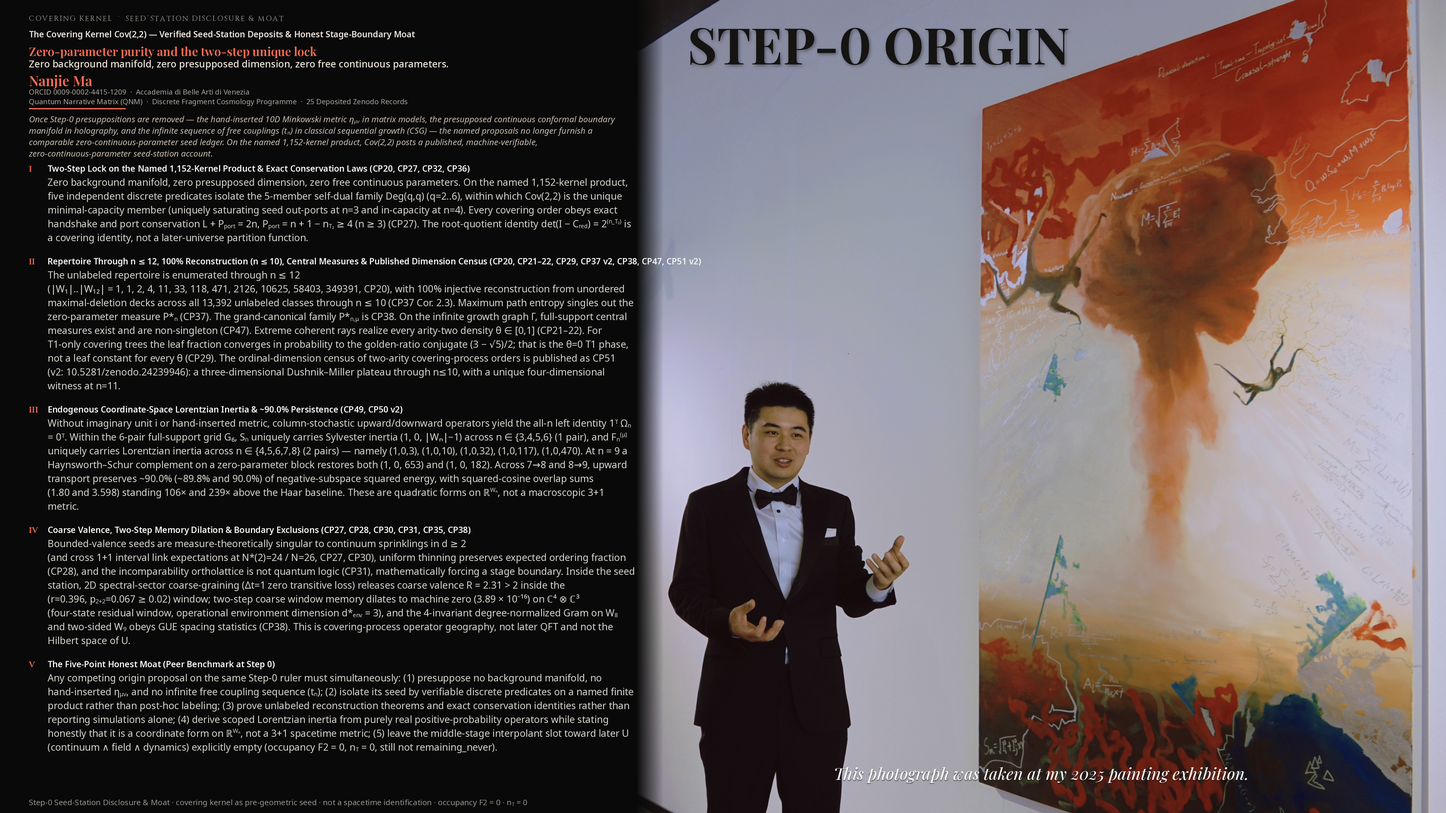
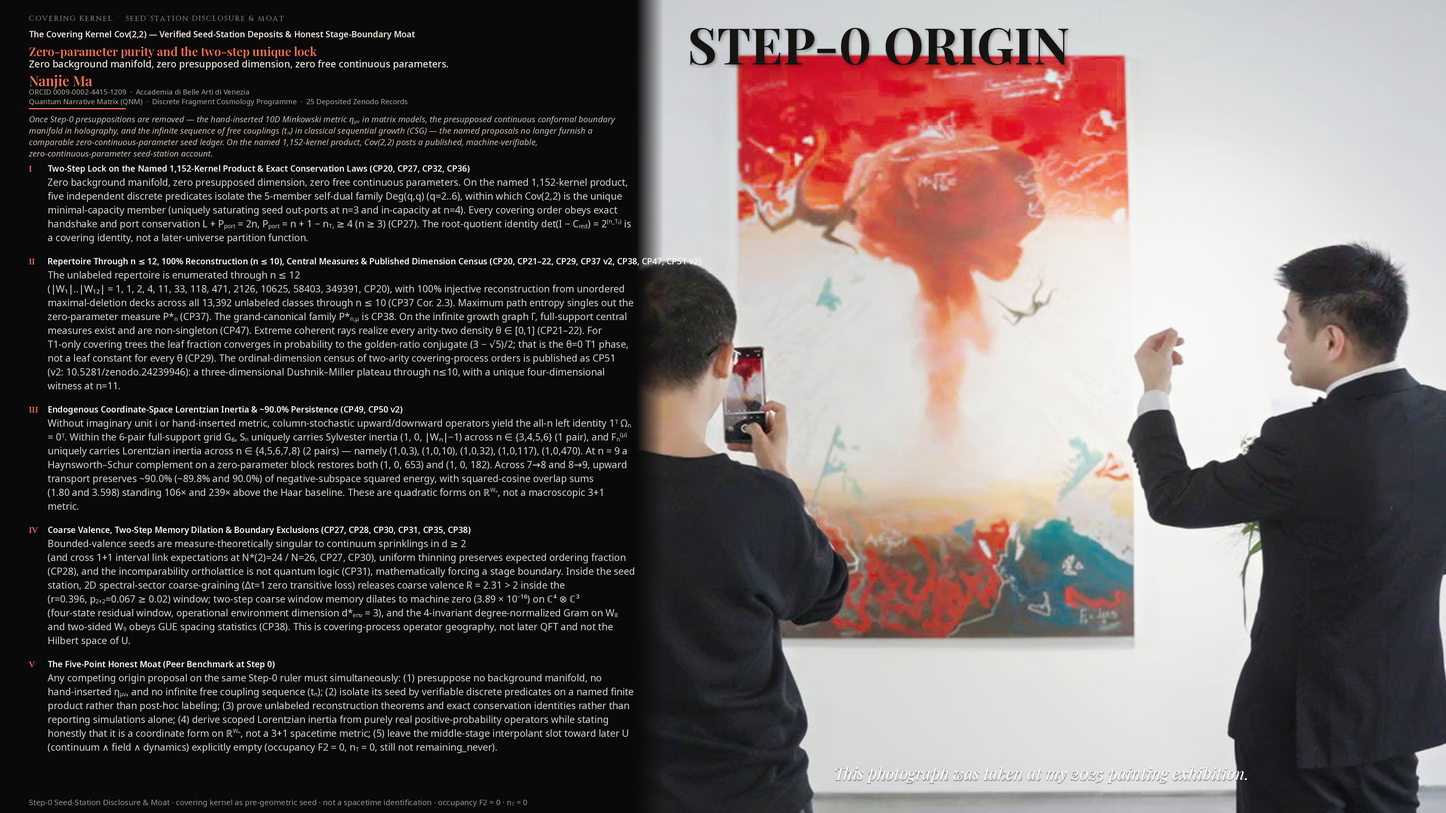
Update STEP-0 ORIGIN plates: add catalogue poster; replace moat with exhibition-photo versions.

diff --git a/step-0-origin-en.html b/step-0-origin-en.html
@@ -4,7 +4,7 @@
 <meta charset="UTF-8">
 <meta name="viewport" content="width=device-width, initial-scale=1.0">
 <title>STEP-0 ORIGIN · seed-station disclosure</title>
-<meta name="description" content="Public seed-station disclosure for the covering kernel: two overlay plates on 2025 exhibition photographs, a written boundary, and links to the on-record deposit table. Not cosmogenesis payment.">
+<meta name="description" content="Public seed-station disclosure for the covering kernel: three overlay plates on 2025 exhibition photographs, a written boundary, and links to the on-record deposit table. Not cosmogenesis payment.">
 <style>
 *{box-sizing:border-box}
 body{font-family:Georgia,"Times New Roman",serif;max-width:980px;margin:0 auto;padding:36px 20px 56px;line-height:1.8;color:#111;background:#fff}
@@ -40,7 +40,7 @@ footer{margin-top:36px;padding-top:14px;border-top:1px solid #ccc;font-size:0.82
 <p class="lead">
   Programme note · 15 November 2026 · Nanjie Ma ·
   <a href="https://orcid.org/0009-0002-4415-1209">ORCID 0009-0002-4415-1209</a><br>
-  <span class="small">About / Work subpage. Public overlay plates on 2025 exhibition photographs, with a seed-station speaking card. Not a homepage hero. Not a ranking. Not a breakthrough notice. Not cosmogenesis payment. The deposit catalogue is on the covering-kernel page and is not reprinted here.</span>
+  <span class="small">About / Work subpage. Three public overlay plates on 2025 exhibition photographs, with a seed-station speaking card. Not a homepage hero. Not a ranking. Not a breakthrough notice. Not cosmogenesis payment. The live 25-record deposit table remains on the covering-kernel page.</span>
 </p>
 
 <div class="nav">
@@ -60,10 +60,10 @@ The covering kernel is a deposited seed-station family. It is not a later comple
 
 <div class="box box-muted">
 <strong>How to read this page.</strong>
-The two plates below are illustrations on photographs from the author’s 2025 painting exhibition.
+The three plates below are illustrations on photographs from the author’s 2025 painting exhibition.
 They are not theorems, not deposits, and not a spacetime identification.
 Mathematics remains on the covering-kernel on-record page and in the Zenodo companions.
-The 25-record covering-kernel deposit table is already on that page; this disclosure does not reprint the catalogue poster.
+The catalogue plate is a poster of the 25-record covering-kernel list already on record; the live deposit table stays on the covering-kernel page.
 </div>
 
 <figure class="fig">
@@ -76,10 +76,18 @@ The 25-record covering-kernel deposit table is already on that page; this disclo
 </p>
 
 <figure class="fig">
-  <img src="assets/media/step-0-origin-moat-en.jpg" width="4800" height="2700" alt="STEP-0 ORIGIN seed-station moat overlay on a 2025 exhibition lecture photograph: seven deposits, comparison, and explicit non-claims.">
+  <img src="assets/media/step-0-origin-catalogue-en.jpg" width="4800" height="2700" alt="STEP-0 CATALOGUE poster of twenty-five covering-kernel companion DOIs overlaid on a 2025 exhibition photograph.">
 </figure>
 <p class="figcaption">
-  Seed-station moat, on a 2025 exhibition lecture photograph.
+  Catalogue plate. Photograph from the 2025 painting exhibition.
+  Overlay: the twenty-five covering-kernel records already on Zenodo — Companions 20–40, 42, 47, 48, 49, 50 and 51. Companion 41 is not listed. This is a poster, not the live table; the deposit table remains on the covering-kernel page.
+</p>
+
+<figure class="fig">
+  <img src="assets/media/step-0-origin-moat-en.jpg" width="4800" height="2700" alt="STEP-0 ORIGIN seed-station moat overlay on a 2025 exhibition photograph: seven deposits, comparison, and explicit non-claims.">
+</figure>
+<p class="figcaption">
+  Seed-station moat, on a 2025 exhibition photograph.
   Overlay: what is deposited at the seed station, a scoped comparison with other first laws, and a written list of sentences this programme does not claim.
   Same boundary: covering births are pre-geometric seed events; they are not identified with spacetime points.
 </p>

diff --git a/step-0-origin-zh.html b/step-0-origin-zh.html
@@ -4,7 +4,7 @@
 <meta charset="UTF-8">
 <meta name="viewport" content="width=device-width, initial-scale=1.0">
 <title>第 0 起步 · 种子站披露</title>
-<meta name="description" content="覆盖核种子站对外披露：两张叠在 2025 年画展照片上的图版、书面边界，以及指向已上记录存款表的链接。不是发生学付款。">
+<meta name="description" content="覆盖核种子站对外披露：三张叠在 2025 年画展照片上的图版、书面边界，以及指向已上记录存款表的链接。不是发生学付款。">
 <style>
 *{box-sizing:border-box}
 body{font-family:Georgia,"Songti SC","Noto Serif SC","Times New Roman",serif;max-width:980px;margin:0 auto;padding:36px 20px 56px;line-height:1.85;color:#111;background:#fff}
@@ -40,7 +40,7 @@ footer{margin-top:36px;padding-top:14px;border-top:1px solid #ccc;font-size:0.82
 <p class="lead">
   纲领说明 · 2026-11-15 · 马楠杰 ·
   <a href="https://orcid.org/0009-0002-4415-1209">ORCID 0009-0002-4415-1209</a><br>
-  <span class="small">About / Work 子页。2025 年画展现场照片上的对外图版，配种子站口径卡。不是首页首屏。不是排名。不是突破通知。不是发生学付款。存款目录已在覆盖核页，本页不重印目录图。</span>
+  <span class="small">About / Work 子页。三张叠在 2025 年画展现场照片上的对外图版，配种子站口径卡。不是首页首屏。不是排名。不是突破通知。不是发生学付款。活的 25 条存款表仍在覆盖核页。</span>
 </p>
 
 <div class="nav">
@@ -60,9 +60,9 @@ footer{margin-top:36px;padding-top:14px;border-top:1px solid #ccc;font-size:0.82
 
 <div class="box box-muted">
 <strong>怎么读这一页。</strong>
-下面两张图叠在作者 2025 年画展现场照片上，是插图，不是定理，不是存款，也不是把覆盖出生等同于时空点。
+下面三张图叠在作者 2025 年画展现场照片上，是插图，不是定理，不是存款，也不是把覆盖出生等同于时空点。
 数学仍以覆盖核奠基工作页和 Zenodo 伴论文为准。
-覆盖核已上记录的 25 条存款表在那一页；本披露不重印目录海报。
+目录图是已上记录的 25 条覆盖核清单海报；活的存款表仍在覆盖核页。
 </div>
 
 <figure class="fig">
@@ -75,10 +75,18 @@ footer{margin-top:36px;padding-top:14px;border-top:1px solid #ccc;font-size:0.82
 </p>
 
 <figure class="fig">
-  <img src="assets/media/step-0-origin-moat-zh.jpg" width="4800" height="2700" alt="第 0 起步种子站护城河图版，叠在 2025 年画展讲解现场照片上：七项存款、对照，以及明确不宣称。">
+  <img src="assets/media/step-0-origin-catalogue-zh.jpg" width="4800" height="2700" alt="第 0 起步全目录海报，二十五条覆盖核伴论文 DOI，叠在 2025 年画展现场照片上。">
 </figure>
 <p class="figcaption">
-  种子站护城河，用 2025 年画展讲解现场照片。
+  目录图。照片摄于 2025 年画展。
+  叠字：已上 Zenodo 的二十五条覆盖核记录——伴论文 20–40、42、47、48、49、50 与 51。伴论文 41 不列入。这是海报，不是活表；存款表仍在覆盖核页。
+</p>
+
+<figure class="fig">
+  <img src="assets/media/step-0-origin-moat-zh.jpg" width="4800" height="2700" alt="第 0 起步种子站护城河图版，叠在 2025 年画展现场照片上：七项存款、对照，以及明确不宣称。">
+</figure>
+<p class="figcaption">
+  种子站护城河，用 2025 年画展现场照片。
   叠字：种子站已落什么、与其它第一法则的有范围对照，以及本纲领明确不说的句子。
   同一条边界：覆盖出生是前几何种子事件，不与时空点等同。
 </p>

diff --git a/index.html b/index.html
@@ -427,7 +427,7 @@
             <div>
               <h3><a href="step-0-origin-en.html">STEP-0 ORIGIN · seed-station disclosure</a>
                 · <a href="step-0-origin-zh.html">中文</a></h3>
-              <p>Two overlay plates on 2025 exhibition photographs: theorem board and seed-station moat. Public speaking card. Catalogue poster not reprinted; the 25-record table stays on the covering-kernel page. Illustration, not a proof, not cosmogenesis payment.</p>
+              <p>Three overlay plates on 2025 exhibition photographs: theorem board, 25-record catalogue poster, and seed-station moat. Public speaking card. The live deposit table stays on the covering-kernel page. Illustration, not a proof, not cosmogenesis payment.</p>
             </div>
           </li>
           <li class="reveal">
@@ -571,11 +571,22 @@
           <article class="visual-card reveal">
             <figure>
               <a href="step-0-origin-en.html">
-                <img src="assets/media/step-0-origin-moat-en.jpg" alt="STEP-0 ORIGIN seed-station moat overlaid on a 2025 exhibition lecture photograph" loading="lazy">
+                <img src="assets/media/step-0-origin-catalogue-en.jpg" alt="STEP-0 CATALOGUE poster of twenty-five covering-kernel companion DOIs on a 2025 exhibition photograph" loading="lazy">
+              </a>
+              <figcaption>
+                <h3><a href="step-0-origin-en.html">STEP-0 ORIGIN · catalogue</a></h3>
+                <p>Poster of the 25-record covering-kernel list. Live table stays on covering kernel.</p>
+              </figcaption>
+            </figure>
+          </article>
+          <article class="visual-card reveal">
+            <figure>
+              <a href="step-0-origin-en.html">
+                <img src="assets/media/step-0-origin-moat-en.jpg" alt="STEP-0 ORIGIN seed-station moat overlaid on a 2025 exhibition photograph" loading="lazy">
               </a>
               <figcaption>
                 <h3><a href="step-0-origin-en.html">STEP-0 ORIGIN · moat</a></h3>
-                <p>Written non-claims on a lecture photograph. Not cosmogenesis payment.</p>
+                <p>Written non-claims on an exhibition photograph. Not cosmogenesis payment.</p>
               </figcaption>
             </figure>
           </article>
